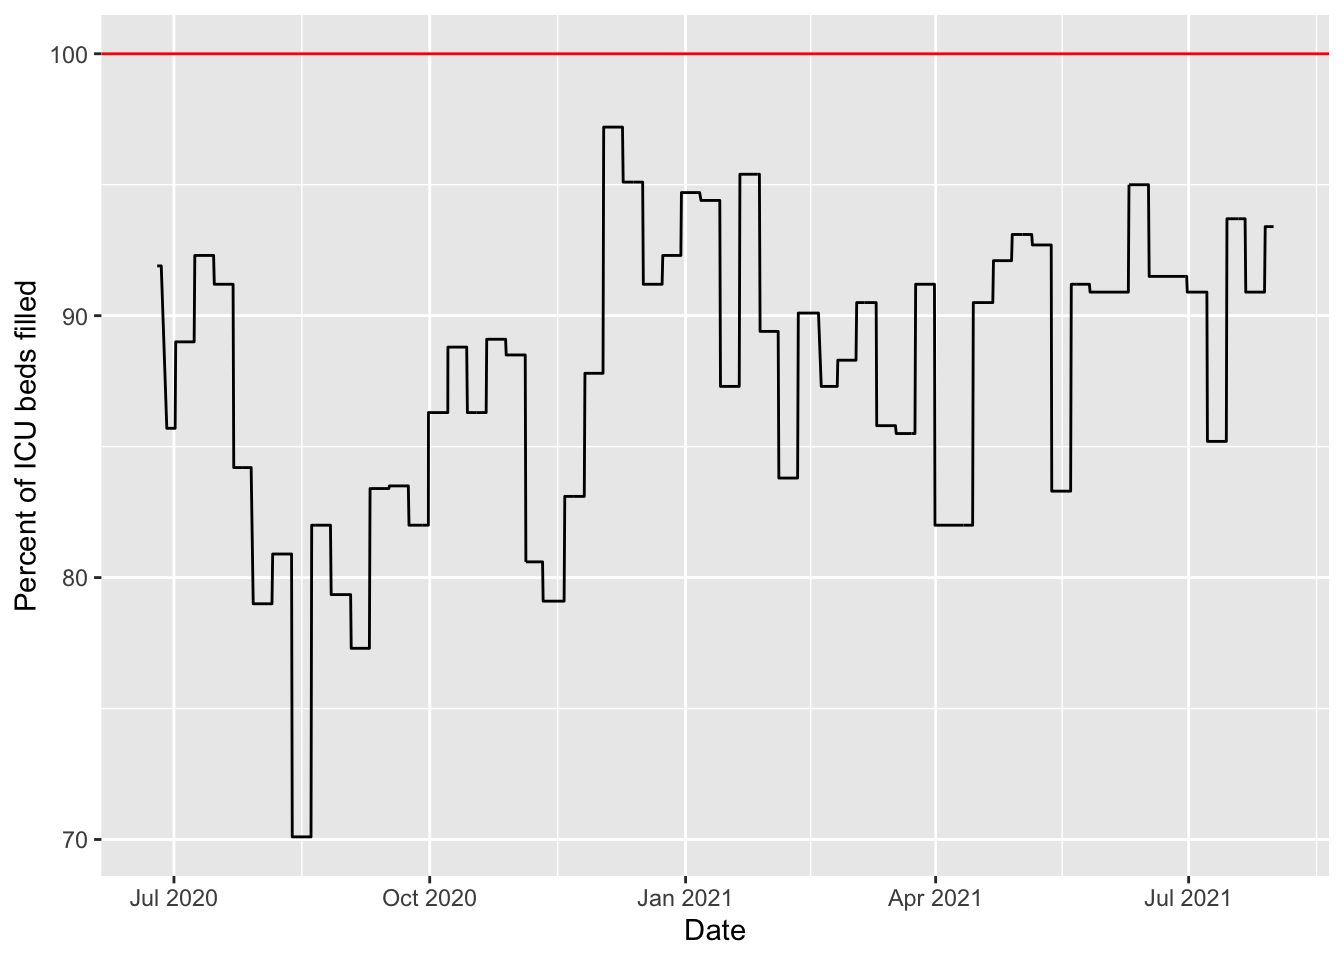
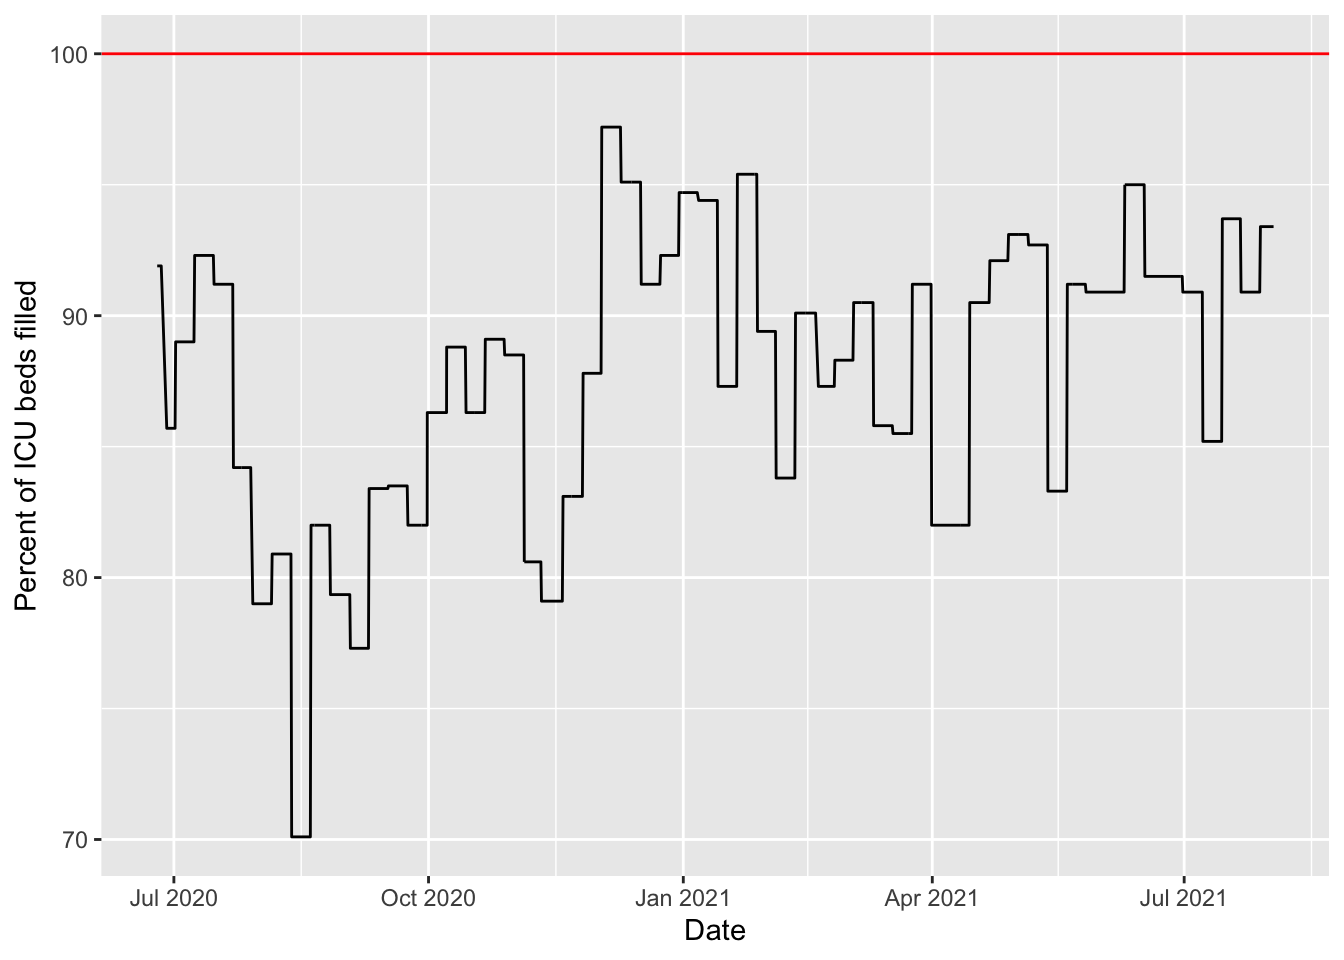
updating site

diff --git a/docs/covid.html b/docs/covid.html
@@ -381,7 +381,7 @@ $(document).ready(function () {
 <li><a href="https://healthdata.gov/dataset/covid-19-reported-patient-impact-and-hospital-capacity-facility">US HHS hospitalization by facility</a></li>
 </ul>
 <hr />
-<p>The following plots are created in R using data from <a href="https://covid19datahub.io" class="uri">https://covid19datahub.io</a> (Guidotti, E., Ardia, D., (2020), “COVID-19 Data Hub”, Working paper, doi: 10.13140/RG.2.2.11649.81763), as well as information from Google and the <a href="https://www.tn.gov/health/cedep/ncov/data/downloadable-datasets.html">state of Tennessee dataset page</a> and plotting and analysis using the <code>forecast</code>, <code>ggplot2</code>, <code>reshape2</code>, and <code>dplyr</code> packages. Plots created on 2021-07-31 14:13:09. I use a seven day rolling average for most plots using the <code>geom_ma</code> function of <code>tidyquant</code>.</p>
+<p>The following plots are created in R using data from <a href="https://covid19datahub.io" class="uri">https://covid19datahub.io</a> (Guidotti, E., Ardia, D., (2020), “COVID-19 Data Hub”, Working paper, doi: 10.13140/RG.2.2.11649.81763), as well as information from Google and the <a href="https://www.tn.gov/health/cedep/ncov/data/downloadable-datasets.html">state of Tennessee dataset page</a> and plotting and analysis using the <code>forecast</code>, <code>ggplot2</code>, <code>reshape2</code>, and <code>dplyr</code> packages. Plots created on 2021-08-02 09:10:37. I use a seven day rolling average for most plots using the <code>geom_ma</code> function of <code>tidyquant</code>.</p>
 <h2 id="cases">
 Cases
 </h2>
@@ -512,7 +512,7 @@ Cases locally
 <h2 id="hospitalization">
 Hospitalization
 </h2>
-<p>As of the last time the data were updated (likely 3 days ago), regional hospitals had 10 ICU beds available of 317 total (so was at 97 percent capacity), and 283 available ventilators out of 416 total, (so was at 32 percent capacity). The hospitals overall had 452 beds available of 3084 total (so was at 85 percent capacity). This is based on 19 acute care hospitals in the East TN region; based on the 14 counties these hospitals are in, these serve at least 1,235,720 people. When a line hits 100% (indicated in red), the local hospitals are theoretically full for that resource (for <em>all</em> patients, not just covid patients), though there is surge capacity on top of this. Note that these data are updated only weekly, so current conditions maybe be much better or worse than these plots show. Data on capacity from Knox County’s dashboard, data on hospitalizations and testing over time from the state data.</p>
+<p>As of the last time the data were updated (likely 5 days ago), regional hospitals had 10 ICU beds available of 317 total (so was at 97 percent capacity), and 283 available ventilators out of 416 total, (so was at 32 percent capacity). The hospitals overall had 452 beds available of 3084 total (so was at 85 percent capacity). This is based on 19 acute care hospitals in the East TN region; based on the 14 counties these hospitals are in, these serve at least 1,235,720 people. When a line hits 100% (indicated in red), the local hospitals are theoretically full for that resource (for <em>all</em> patients, not just covid patients), though there is surge capacity on top of this. Note that these data are updated only weekly, so current conditions maybe be much better or worse than these plots show. Data on capacity from Knox County’s dashboard, data on hospitalizations and testing over time from the state data.</p>
 <p><img src="covid_files/figure-html/hospitalcapacityplot-1.png" width="672" /></p>
 <p>Trends in hospitalization of covid patients over time. The vertical dotted line shows the last day with updated capacity information from Knox County, when there were 10 ICU beds available (ignoring surge capacity) for people in the East Tennessee region. The seven day average is shown.</p>
 <p><img src="covid_files/figure-html/plotsD-1.png" width="672" /></p>
